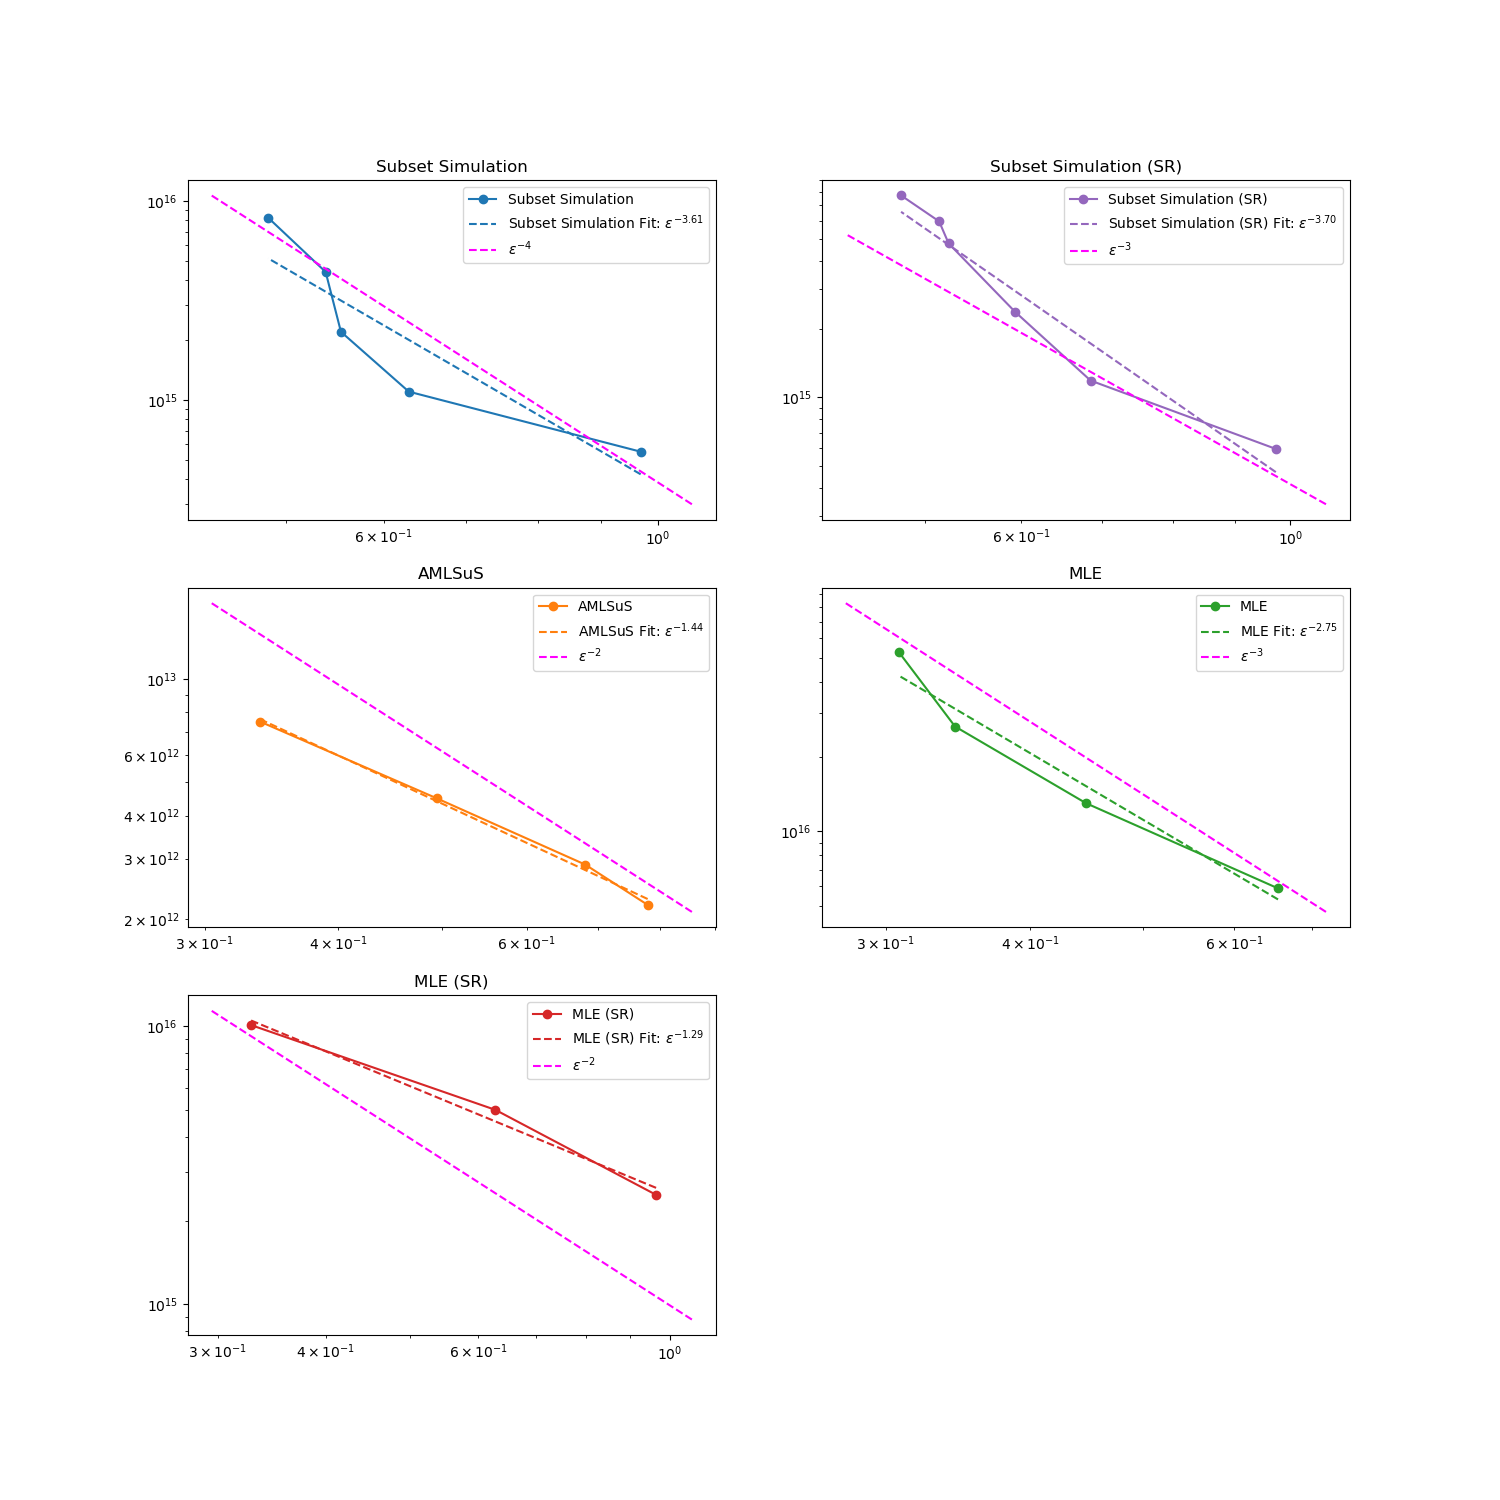
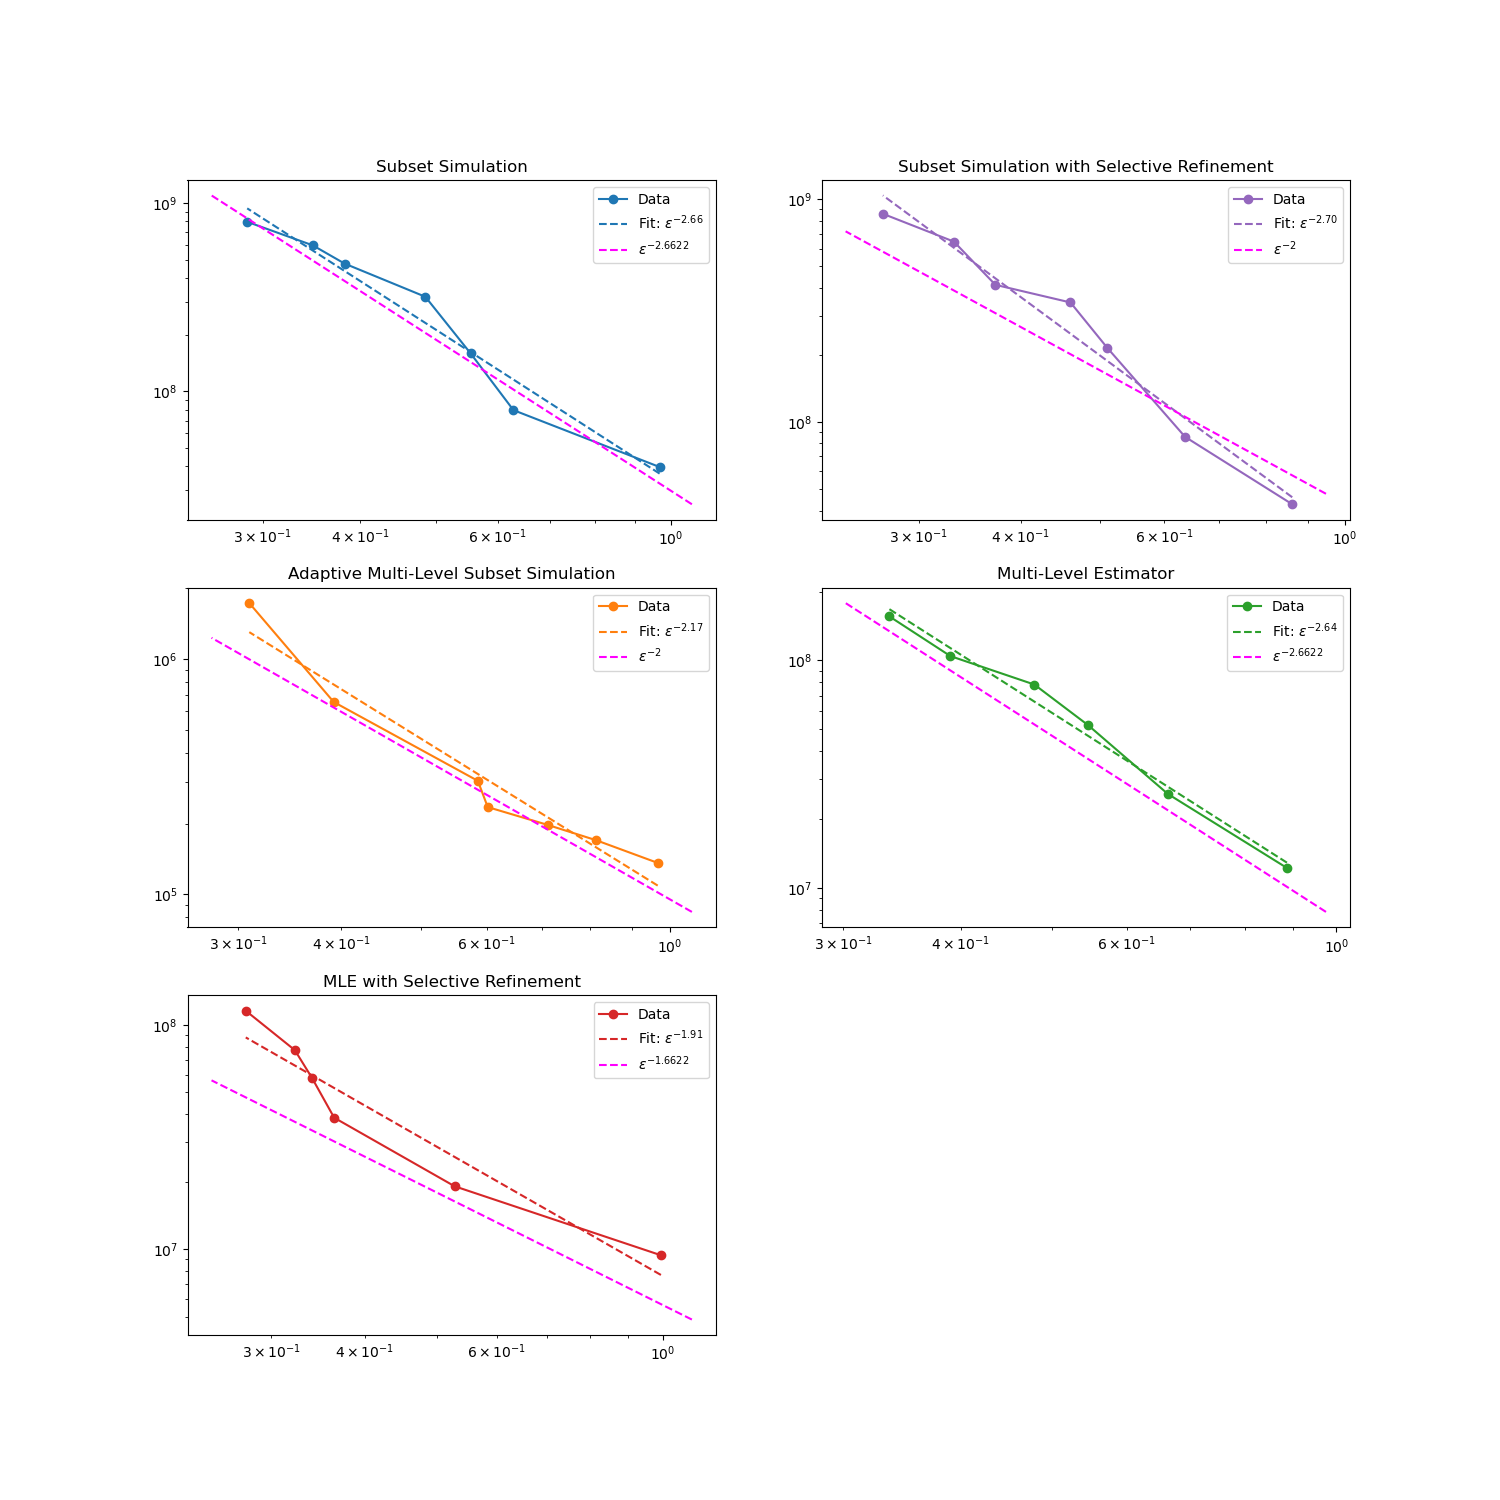
final data

diff --git a/PDE_res/plot_sub.py b/PDE_res/plot_sub.py
@@ -1,0 +1,94 @@
+import numpy as np
+import matplotlib.pyplot as plt
+from scipy.stats import linregress
+
+fig,axs = plt.subplots(3,2,figsize=(15, 15))
+fig.delaxes(axs[2,1])
+
+# Data from PDE_res/SubS_numba.py
+error_list = np.load("SubS_error_list512.npy")
+cost_list = np.load("SubS_cost_list512.npy")
+axs[0,0].loglog(error_list, cost_list, "o-", color="tab:blue", label="Data")
+
+# Linear Regression
+slope, intercept, r_value, p_value, std_err = linregress(np.log(error_list), np.log(cost_list))
+axs[0,0].loglog(error_list, np.exp(intercept) * error_list ** slope, "--", color="tab:blue", label=f"Fit: $\\epsilon^{{{slope:.2f}}}$")
+
+# Plot the reference line
+x = np.linspace(1.1*error_list[0], 0.9*error_list[-1], 100)
+y = 0.75 * cost_list[0] * x ** (-2.6622)
+axs[0,0].loglog(x, y, "--", color="fuchsia", label=r"$\epsilon^{-2.6622}$")
+
+axs[0,0].set_title("Subset Simulation")
+axs[0,0].legend()
+
+# Data from PDE_res/SubS_sr.py
+error_list_sr = np.load("SubS_sr_error_list512.npy")
+cost_list_sr = np.load("SubS_sr_cost_list512.npy")
+axs[0,1].loglog(error_list_sr, cost_list_sr, "o-", color = "tab:purple", label="Data")
+
+# Linear Regression
+slope, intercept, r_value, p_value, std_err = linregress(np.log(error_list_sr), np.log(cost_list_sr))
+axs[0,1].loglog(error_list_sr, np.exp(intercept) * error_list_sr ** slope, "--", color="tab:purple", label=f"Fit: $\\epsilon^{{{slope:.2f}}}$")
+
+x = np.linspace(1.1*error_list_sr[0], 0.9*error_list_sr[-1], 100)
+y = cost_list_sr[0] * x ** (-2)
+axs[0,1].loglog(x, y, "--", color = "fuchsia", label=r"$\epsilon^{-2}$")
+
+axs[0,1].set_title("Subset Simulation with Selective Refinement")
+axs[0,1].legend()
+
+# Data from PDE_res/AMLSuS.py
+error_list_amlsus = np.load("amlsus_error_list64.npy")
+cost_list_amlsus = np.load("amlsus_cost_list64.npy")
+axs[1,0].loglog(error_list_amlsus, cost_list_amlsus, "o-", color = "tab:orange", label="Data")
+
+# Linear Regression
+slope, intercept, r_value, p_value, std_err = linregress(np.log(error_list_amlsus), np.log(cost_list_amlsus))
+axs[1,0].loglog(error_list_amlsus, np.exp(intercept) * error_list_amlsus ** slope, "--", color="tab:orange", label=f"Fit: $\\epsilon^{{{slope:.2f}}}$")
+
+x = np.linspace(1.1*error_list_amlsus[0], 0.9*error_list_amlsus[-1], 100)
+y = 0.7 * cost_list_amlsus[0] * x ** (-2)
+axs[1,0].loglog(x, y, "--", color = "fuchsia", label=r"$\epsilon^{-2}$")
+
+axs[1,0].set_title("Adaptive Multi-Level Subset Simulation")
+axs[1,0].legend()
+
+# Data from PDE_res/MLE.py
+error_list_mle = np.load("mle_error_list64.npy")
+cost_list_mle = np.load("mle_cost_list64.npy")
+axs[1,1].loglog(error_list_mle, cost_list_mle, "o-", color = "tab:green", label="Data")
+
+# Linear Regression
+slope, intercept, r_value, p_value, std_err = linregress(np.log(error_list_mle), np.log(cost_list_mle))
+axs[1,1].loglog(error_list_mle, np.exp(intercept) * error_list_mle ** slope, "--", color="tab:green", label=f"Fit: $\\epsilon^{{{slope:.2f}}}$")
+
+x = np.linspace(1.1*error_list_mle[0], 0.9*error_list_mle[-1], 100)
+y = 0.6 * cost_list_mle[0] * x ** (-2.6622)
+axs[1,1].loglog(x, y, "--", color = "fuchsia", label=r"$\epsilon^{-2.6622}$")
+
+axs[1,1].set_title("Multi-Level Estimator")
+axs[1,1].legend()
+
+# Data from PDE_res/MLE_sr.py
+error_list_mle_sr = np.load("mle_sr_error_list64.npy")
+cost_list_mle_sr = np.load("mle_sr_cost_list64.npy")
+axs[2,0].loglog(error_list_mle_sr, cost_list_mle_sr, "o-", color = "tab:red", label="Data")
+
+# Linear Regression
+slope, intercept, r_value, p_value, std_err = linregress(np.log(error_list_mle_sr), np.log(cost_list_mle_sr))
+axs[2,0].loglog(error_list_mle_sr, np.exp(intercept) * error_list_mle_sr ** slope, "--", color="tab:red", label=f"Fit: $\\epsilon^{{{slope:.2f}}}$")
+
+x = np.linspace(1.1*error_list_mle_sr[0], 0.9*error_list_mle_sr[-1], 100)
+y = 0.6 * cost_list_mle_sr[0] * x ** (-1.6622)
+axs[2,0].loglog(x, y, "--", color = "fuchsia", label=r"$\epsilon^{-1.6622}$")
+
+axs[2,0].set_title("MLE with Selective Refinement")
+axs[2,0].legend()
+
+
+# plt.xlabel("rRMSE")
+# plt.ylabel("Cost")
+plt.legend()
+plt.savefig("1d_sub.png")
+plt.show()
